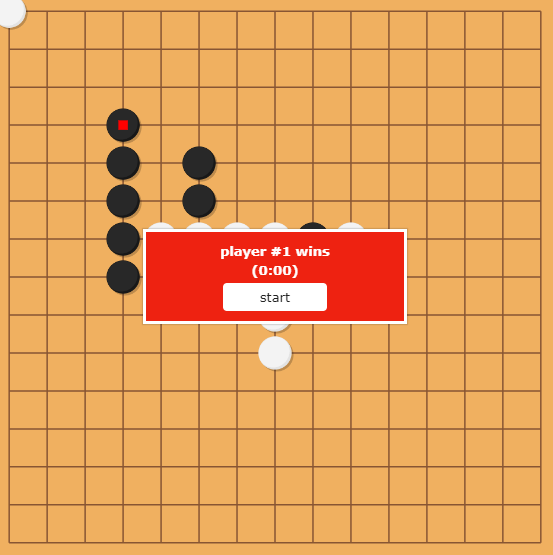
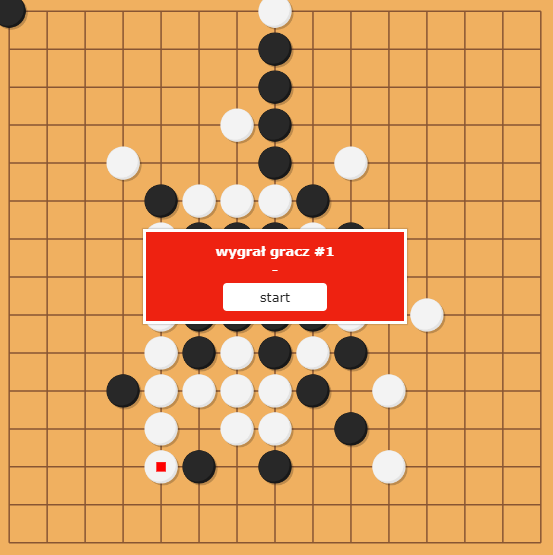
DEBUG AGAIN

diff --git a/CppFiles/MinMax.cpp b/CppFiles/MinMax.cpp
@@ -9,6 +9,9 @@
 
 using namespace std;
 
+///TODO
+/// IF SB HAS FE XXX OR X0XX SIGN IT AS DENGOREUS AND SCORE THEM WEL/BADLY!
+
 int ScoreBoard(char board[15][15], char& maximaler, char& minimaler);
 int EvalBoard(char board[15][15], char& maximaler, char& minimaler);
 void GetAllMoves(char board[15][15], bool moves[15][15]);
@@ -36,16 +39,16 @@ MinMax::MinMax(char AI_Char)
 int FindBestMove(char board[15][15], char turn, int depth, int alpha, int beta, char& maximaler, char& minimaler,
 	short& move_x, short& move_y)
 {
-	if (depth == 0)
+	if (depth == 0 || GetWinner(board) != '0')
 	{
 		return EvalBoard(board, maximaler, minimaler);
 	}
 
-	char winner = GetWinner(board);
-	if (winner != '0')
-	{
-		return (winner == maximaler) ? INT_MAX : INT_MIN;
-	}
+	//char winner = GetWinner(board);
+	//if (winner != '0')
+	//{
+	//	return (winner == maximaler) ? INT_MAX : INT_MIN;
+	//}
 
 	char my_board[15][15];
 	memcpy(my_board, board, 225);
@@ -173,7 +176,7 @@ int FindBestMove(char board[15][15], char turn, int depth, int alpha, int beta, 
 						{
 							return bestscore;
 						}
-					} 
+					}
 				}
 			}
 		}
@@ -314,11 +317,11 @@ char GetWinner(char board[15][15])
 				if (i >= 4 && board[i][j] == board[i_minus_sth[0]][j] && board[i_minus_sth[0]][j] == board[i_minus_sth[1]][j]
 					&& board[i_minus_sth[1]][j] == board[i_minus_sth[2]][j] && board[i_minus_sth[2]][j] == board[i_minus_sth[3]][j])
 				{
-					if (i > 4 && ((i == 14 || board[i + 1][j] != board[i][j]) && board[i][j] != board[i - 5][j]))
+					if (i > 4 && ((i == 14 || board[i + 1][j] != board[i][j]) && board[i - 5][j] != board[i][j]))
 					{
 						return board[i][j];
 					}
-					if (i == 4 && board[i + 1][j] != board[i][j])
+					if (i == 4 && board[5][j] != board[i][j])
 					{
 						return board[i][j];
 					}
@@ -347,7 +350,7 @@ char GetWinner(char board[15][15])
 						{
 							return board[i][j];
 						}
-						if (i == 4 && j == 4 && board[i][j] != board[i + 1][j + 1])
+						if (i == 4 && j == 4 && board[i][j] != board[5][5])
 						{
 							return board[i][j];
 						}
@@ -400,6 +403,8 @@ int ScoreBoard(char board[15][15], char& maximaler, char& minimaler) //AI +, pla
 {
 	int i_minus_sth[4];
 	int score = 0;
+
+	//int prev_score = 0;		//DEBUG
 	for (int i = 0; i <= 14; i++)
 	{
 		i_minus_sth[3] = i - 4;
@@ -408,20 +413,25 @@ int ScoreBoard(char board[15][15], char& maximaler, char& minimaler) //AI +, pla
 		i_minus_sth[0] = i - 1;
 		for (int j = 0; j <= 14; j++)
 		{
+			//prev_score = score;
 			if (board[i][j] != '0')
 			{
 				// Checking column
 				if (i >= 4)
 				{
-					if (board[i][j] == board[i_minus_sth[0]][j] && board[i_minus_sth[0]][j] == board[i_minus_sth[1]][j])
+					if (board[i][j] == board[i_minus_sth[0]][j] && board[i_minus_sth[0]][j] == board[i_minus_sth[1]][j]
+						&& ((i == 4 || board[i - 5][j] != board[i][j]) || (i == 13 || board[i + 2][j] != board[i][j])))	//bc I want exacly X in row and i checking here if There will be possibility to put stone here XD
 					{
 						//0XXXX or XXXX0 or win/lose
 						if (board[i_minus_sth[1]][j] == board[i_minus_sth[2]][j])
 						{
 							if (board[i_minus_sth[3]][j] == '0' && ((i != 14 && board[i + 1][j] == '0')))
-								return (board[i][j] == maximaler) ? INT_MAX / 2 : INT_MIN / 2;
+								score += (board[i][j] == maximaler) ? INT_MAX /8 : INT_MIN / 4;
 							if (board[i_minus_sth[3]][j] == '0' || (i != 14 && board[i + 1][j] == '0'))
+							{
+								//cout << "here: " <<board[i][j]<< endl;
 								score += (board[i][j] == maximaler) ? 2 : -2;
+							}
 							if (board[i_minus_sth[3]][j] == board[i][j] || (i != 14 && board[i + 1][j] == board[i][j]))
 								return (board[i][j] == maximaler) ? INT_MAX : INT_MIN;
 						}
@@ -451,15 +461,20 @@ int ScoreBoard(char board[15][15], char& maximaler, char& minimaler) //AI +, pla
 					//checking row
 					if (board[i][j] == board[i][j - 1] && board[i][j - 1] == board[i][j - 2])
 					{
+						//cout << "here: " << board[i][j] << endl;
 						//0XXXX or XXXX0 or win/lose
 						if (board[i][j - 2] == board[i][j - 3])
 						{
+							//cout << "here: " << board[i][j] << endl;
 							if (board[i][j - 4] == '0' && (j != 14 && board[i][j + 1] == '0'))
-								return (board[i][j] == maximaler) ? INT_MAX / 2 : INT_MIN / 2;
+								score += (board[i][j] == maximaler) ? INT_MAX / 8 : INT_MIN / 4;
 							if (board[i][j - 4] == board[i][j] || (j != 14 && board[i][j + 1] == board[i][j]))
 								return (board[i][j] == maximaler) ? INT_MAX : INT_MIN;
 							if (board[i][j - 4] == '0' || (j != 14 && board[i][j + 1] == '0'))
+							{
+								//cout << "here: " << board[i][j] << endl;
 								score += (board[i][j] == maximaler) ? 2 : -2;
+							}
 						}
 						//check column X0XXX
 						else if (board[i][j - 3] == '0' && board[i][j - 4] == board[i][j])
@@ -491,7 +506,7 @@ int ScoreBoard(char board[15][15], char& maximaler, char& minimaler) //AI +, pla
 							if (board[i_minus_sth[1]][j - 2] == board[i_minus_sth[2]][j - 3])
 							{
 								if (board[i_minus_sth[3]][j - 4] == '0' && ((i != 14 && j != 14) && board[i + 1][j + 1] == '0'))
-									return (board[i][j] == maximaler) ? INT_MAX / 2 : INT_MIN / 2;
+									score += (board[i][j] == maximaler) ? INT_MAX / 8 : INT_MIN / 4;
 								if (board[i_minus_sth[3]][j - 4] == '0' || board[i + 1][j + 1] == '0')
 									score += (board[i][j] == maximaler) ? 2 : -2;
 								if (board[i_minus_sth[3]][j - 4] == board[i][j] || board[i + 1][j + 1] == board[i][j])
@@ -523,13 +538,16 @@ int ScoreBoard(char board[15][15], char& maximaler, char& minimaler) //AI +, pla
 					{
 						if (board[i][j] == board[i + 1][j - 1] && board[i + 1][j - 1] == board[i + 2][j - 2])
 						{
+							//cout << "here: " << board[i][j] << endl;
 							//0XXXX or XXXX0 or win/lose
 							if (board[i + 2][j - 2] == board[i + 3][j - 3])
 							{
 								if (board[i + 4][j - 4] == '0' && (i != 0 && j != 14 && board[i - 1][j + 1] == '0'))
-									return (board[i][j] == maximaler) ? INT_MAX / 2 : INT_MIN / 2;
+									score += (board[i][j] == maximaler) ? INT_MAX / 8 : INT_MIN / 4;		// dividing by 20 bd next move will be opponent move 
 								if (board[i + 4][j - 4] == '0' || (i != 0 && j != 14 && board[i - 1][j + 1] == '0'))
+								{
 									score += (board[i][j] == maximaler) ? 2 : -2;
+								}
 								if (board[i + 4][j - 4] == board[i][j] || board[i - 1][j + 1] == board[i][j])
 									return (board[i][j] == maximaler) ? INT_MAX : INT_MIN;
 							}
@@ -555,6 +573,11 @@ int ScoreBoard(char board[15][15], char& maximaler, char& minimaler) //AI +, pla
 					}
 				}
 			}
+			//if (prev_score != score)
+			//{
+				//cout << i << "  " << j << endl;
+				//cout << score;
+			//}
 		}
 	}
 	return score;
@@ -619,6 +642,7 @@ int main()
 
 		/// FINDING BEST MOVE
 		const clock_t begin_time = clock();
+
 		int move = 0;
 		move = GetBestMove(str_board, 'X', depth, 'X', 'O', left_x_subtstractor, right_x_subtstractor, left_y_subtstractor, right_y_subtstractor);
 
@@ -644,7 +668,11 @@ int main()
 					board[j][i % 15] = str_board[i];
 				}
 			}
-
+			// DEBUG //
+			char x = 'X';
+			char o = 'O';
+			cout << ScoreBoard(board, x, o) << endl;
+			// END DEBUG //
 			printBoard(board, right_x_subtstractor, left_x_subtstractor, right_y_subtstractor, left_y_subtstractor);
 		}
 

diff --git a/main.py b/main.py
@@ -14,8 +14,8 @@ from pynput.mouse import Button, Controller
 
 BLACK = (40, 40, 40)
 WHITE = (243, 243, 243)
-AI = WHITE
-OPPONENT = BLACK
+AI = BLACK
+OPPONENT = WHITE
 
 mouse = Controller()
 
@@ -176,6 +176,7 @@ if __name__ == '__main__':
     read_postions_to_click()
     board_list = []
     x_l_substr, x_r_range, y_l_substr, y_r_range =  0, 14, 0, 14
+    depth = 5
     while True:
         temp_board_str = get_curr_board(1)
         if temp_board_str == "-1":
@@ -192,11 +193,16 @@ if __name__ == '__main__':
             board_list[move] = 'X'
             print_curr_board(board_list, move)
         else:
+            print("DEPTH: ", depth)
             save_parameters_to_file(board_list, 5, x_l_substr, x_r_range, y_l_substr, y_r_range)
+            timer = time.time()
             run_cpp()
             move = get_indexand_print_board_from_file(board_list)
-            #board_list[move] = 'X'
-        
+            if time.time() - timer <= 0.15:
+                depth = 7
+            elif time.time() - timer >= 13:
+                depth = 5
+
         click_mouse(move)
 
         LAST_4_MOVES.append(move)

diff --git a/Debug staff/deleteSpaces.py b/Debug staff/deleteSpaces.py
@@ -1,0 +1,5 @@
+f = open("boards with rpoblems.txt", 'r')
+f2 = open("boards with rpoblems wtihout spaces.txt", 'w')
+
+for line in f.readlines():
+    f2.write(line.replace(" ", ""))
